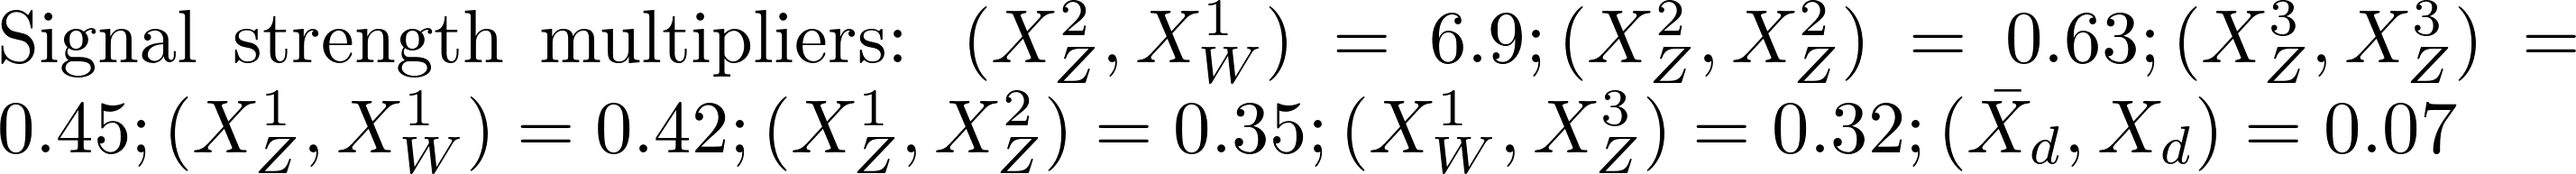
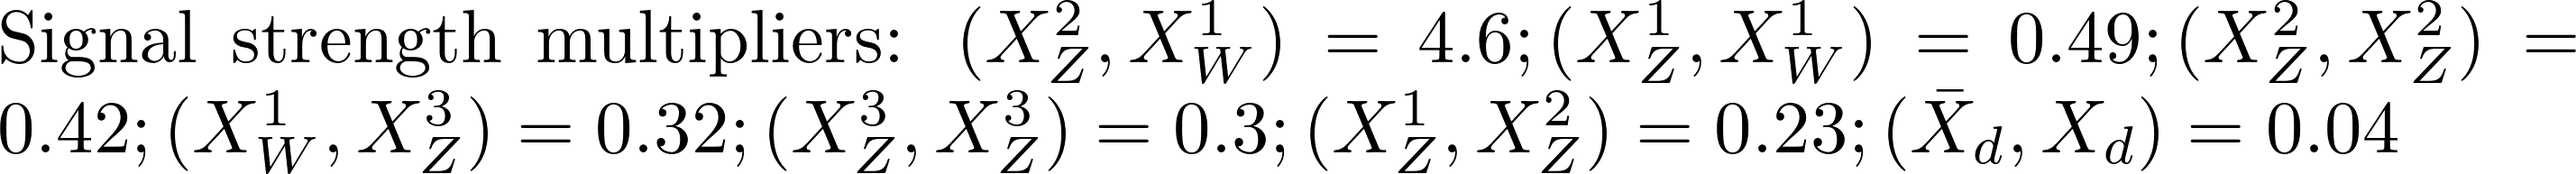
automated update by plotHiscore.py to rundir5_320:     K=33.703 TL=41.45 walkerid=501

diff --git a/protomodels/rundir5_320/rawnumbers.html b/protomodels/rundir5_320/rawnumbers.html
@@ -1,36 +1,36 @@
 <table>
 <tr><th>Analysis Name</th><th>Type</th><th>Dataset</th><th>Topos</th><th>Observed</th><th>Expected</th><th>Approx &sigma;</th><th>Particles</th>
 </tr>
-<tr><td><a href=http://cms-results.web.cern.ch/cms-results/public-results/publications/EXO-20-004/>CMS-EXO-20-004</a></td><td>comb</td> <td>-</td><td>TChiISR, TChiZISRqq</td><td> 1e+02 fb </td><td> 7e+01 fb</td><td style="text-align:right">4.8 &sigma;</td><td style="text-align:right">X<sup>1</sup><sub>W</sub>, X<sup>2</sup><sub>Z</sub>, X<sup>1</sup><sub>Z</sub></td></tr>
-<tr><td><a href=https://atlas.web.cern.ch/Atlas/GROUPS/PHYSICS/PAPERS/EXOT-2018-06/>ATLAS-EXOT-2018-06</a></td><td>em</td> <td>EM10</td><td>TChiISR, TChiZISRqq</td><td>413</td><td>359.00 +/- 10.00</td><td style="text-align:right">2.4 &sigma;</td><td style="text-align:right">X<sup>1</sup><sub>W</sub>, X<sup>2</sup><sub>Z</sub>, X<sup>1</sup><sub>Z</sub></td></tr>
-<tr><td><a href=http://cms-results.web.cern.ch/cms-results/public-results/publications/SUS-20-004/>CMS-SUS-20-004</a></td><td>comb</td> <td>-</td><td>TChiHH</td><td> 0.3 fb </td><td> 0.2 fb</td><td style="text-align:right">2.3 &sigma;</td><td style="text-align:right">X<sup>3</sup><sub>Z</sub>, X<sup>2</sup><sub>Z</sub>, X<sup>1</sup><sub>Z</sub></td></tr>
+<tr><td><a href=http://cms-results.web.cern.ch/cms-results/public-results/publications/EXO-20-004/>CMS-EXO-20-004</a></td><td>comb</td> <td>-</td><td>TChiISR, TChiZISRqq</td><td> 1e+02 fb </td><td> 8e+01 fb</td><td style="text-align:right">4.8 &sigma;</td><td style="text-align:right">X<sup>1</sup><sub>W</sub>, X<sup>2</sup><sub>Z</sub>, X<sup>1</sup><sub>Z</sub></td></tr>
+<tr><td><a href=https://atlas.web.cern.ch/Atlas/GROUPS/PHYSICS/PAPERS/EXOT-2018-06/>ATLAS-EXOT-2018-06</a></td><td>em</td> <td>EM10</td><td>TChiISR, TChiZISRqq</td><td>413</td><td>359.00 +/- 10.00</td><td style="text-align:right">2.5 &sigma;</td><td style="text-align:right">X<sup>1</sup><sub>W</sub>, X<sup>2</sup><sub>Z</sub>, X<sup>1</sup><sub>Z</sub></td></tr>
+<tr><td><a href=http://cms-results.web.cern.ch/cms-results/public-results/publications/SUS-20-004/>CMS-SUS-20-004</a></td><td>comb</td> <td>-</td><td>TChiHH</td><td> 0.4 fb </td><td> 0.2 fb</td><td style="text-align:right">2.3 &sigma;</td><td style="text-align:right">X<sup>3</sup><sub>Z</sub>, X<sup>2</sup><sub>Z</sub>, X<sup>1</sup><sub>Z</sub></td></tr>
 <tr><td><a href=https://atlas.web.cern.ch/Atlas/GROUPS/PHYSICS/PAPERS/SUSY-2016-07/>ATLAS-SUSY-2016-07</a></td><td>em</td> <td>2j_Meff_1200</td><td>T2</td><td>611</td><td>526.00 +/- 31.00</td><td style="text-align:right">2.1 &sigma;</td><td style="text-align:right">X<sup>2</sup><sub>Z</sub>, X<sup>1</sup><sub>Z</sub>, X<sub>d</sub></td></tr>
 <tr><td><a href=https://cms-results.web.cern.ch/cms-results/public-results/publications/SUS-13-012/index.html>CMS-SUS-13-012</a></td><td>em</td> <td>3NJet6_1000HT12 ...</td><td>T2</td><td>32</td><td>22.80 +/- 5.20</td><td style="text-align:right">1.2 &sigma;</td><td style="text-align:right">X<sup>2</sup><sub>Z</sub>, X<sup>1</sup><sub>Z</sub>, X<sub>d</sub></td></tr>
 <tr><td><a href=https://atlas.web.cern.ch/Atlas/GROUPS/PHYSICS/CONFNOTES/ATLAS-CONF-2013-054/>ATLAS-CONF-2013-054</a></td><td>em</td> <td>8j50 flavor 0 b ...</td><td>T2</td><td>40</td><td>35.00 +/- 4.00</td><td style="text-align:right">0.7 &sigma;</td><td style="text-align:right">X<sup>2</sup><sub>Z</sub>, X<sup>1</sup><sub>Z</sub>, X<sub>d</sub></td></tr>
 <tr><td><a href=https://atlas.web.cern.ch/Atlas/GROUPS/PHYSICS/PAPERS/SUSY-2013-02/>ATLAS-SUSY-2013-02</a></td><td>em</td> <td>SR2jt</td><td>T2</td><td>133</td><td>125.00 +/- 10.00</td><td style="text-align:right">0.5 &sigma;</td><td style="text-align:right">X<sup>2</sup><sub>Z</sub>, X<sup>1</sup><sub>Z</sub>, X<sub>d</sub></td></tr>
 </table>
 <table style='color:grey'>
-<tr><th>Not in Best Combo</th><th>Type</th><th>Dataset</th><th>Topos</th><th>Observed</th><th>Expected</th><th>Approx &sigma;</th><th>Particles</th><tr><td><a href=https://atlas.web.cern.ch/Atlas/GROUPS/PHYSICS/CONFNOTES/ATLAS-CONF-2013-047/>ATLAS-CONF-2013-047</a></td><td>em</td> <td>E Loose</td><td>T2</td><td>166</td><td>113.00 +/- 21.00</td><td style="text-align:right">2.2 &sigma;</td><td style="text-align:right">X<sup>2</sup><sub>Z</sub>, X<sup>1</sup><sub>Z</sub>, X<sub>d</sub></td></tr>
-<tr><td><a href=https://atlas.web.cern.ch/Atlas/GROUPS/PHYSICS/CONFNOTES/ATLAS-CONF-2013-047/>ATLAS-CONF-2013-047</a></td><td>em</td> <td>A Loose</td><td>T2</td><td>5333</td><td>4700.00 +/- 500.00</td><td style="text-align:right">1.3 &sigma;</td><td style="text-align:right">X<sup>2</sup><sub>Z</sub>, X<sup>1</sup><sub>Z</sub>, X<sub>d</sub></td></tr>
+<tr><th>Not in Best Combo</th><th>Type</th><th>Dataset</th><th>Topos</th><th>Observed</th><th>Expected</th><th>Approx &sigma;</th><th>Particles</th><tr><td><a href=https://atlas.web.cern.ch/Atlas/GROUPS/PHYSICS/CONFNOTES/ATLAS-CONF-2013-047/>ATLAS-CONF-2013-047</a></td><td>em</td> <td>E Loose</td><td>T2</td><td>166</td><td>113.00 +/- 21.00</td><td style="text-align:right">2.1 &sigma;</td><td style="text-align:right">X<sup>2</sup><sub>Z</sub>, X<sup>1</sup><sub>Z</sub>, X<sub>d</sub></td></tr>
+<tr><td><a href=https://atlas.web.cern.ch/Atlas/GROUPS/PHYSICS/CONFNOTES/ATLAS-CONF-2013-047/>ATLAS-CONF-2013-047</a></td><td>em</td> <td>A Loose</td><td>T2</td><td>5333</td><td>4700.00 +/- 500.00</td><td style="text-align:right">1.2 &sigma;</td><td style="text-align:right">X<sup>2</sup><sub>Z</sub>, X<sup>1</sup><sub>Z</sub>, X<sub>d</sub></td></tr>
 <tr><td><a href=http://cms-results.web.cern.ch/cms-results/public-results/publications/SUS-16-033/index.html>CMS-SUS-16-033</a></td><td>em</td> <td>SR2_Njet3_Nb0_H ...</td><td>T2</td><td>71</td><td>55.20 +/- 11.50</td><td style="text-align:right">1.1 &sigma;</td><td style="text-align:right">X<sup>2</sup><sub>Z</sub>, X<sup>1</sup><sub>Z</sub>, X<sub>d</sub></td></tr>
 <tr><td><a href=https://atlas.web.cern.ch/Atlas/GROUPS/PHYSICS/CONFNOTES/ATLAS-CONF-2013-047/>ATLAS-CONF-2013-047</a></td><td>em</td> <td>E Medium</td><td>T2</td><td>41</td><td>30.00 +/- 8.00</td><td style="text-align:right">1.1 &sigma;</td><td style="text-align:right">X<sup>2</sup><sub>Z</sub>, X<sup>1</sup><sub>Z</sub>, X<sub>d</sub></td></tr>
 <tr><td><a href=http://atlas.web.cern.ch/Atlas/GROUPS/PHYSICS/PAPERS/SUSY-2015-06/>ATLAS-SUSY-2015-06</a></td><td>em</td> <td>SR4jt</td><td>T2</td><td>7</td><td>4.10 +/- 1.10</td><td style="text-align:right">1.0 &sigma;</td><td style="text-align:right">X<sup>2</sup><sub>Z</sub>, X<sup>1</sup><sub>Z</sub>, X<sub>d</sub></td></tr>
 <tr><td><a href=https://atlas.web.cern.ch/Atlas/GROUPS/PHYSICS/CONFNOTES/ATLAS-CONF-2013-047/>ATLAS-CONF-2013-047</a></td><td>em</td> <td>E Tight</td><td>T2</td><td>5</td><td>2.90 +/- 1.80</td><td style="text-align:right">0.7 &sigma;</td><td style="text-align:right">X<sup>2</sup><sub>Z</sub>, X<sup>1</sup><sub>Z</sub>, X<sub>d</sub></td></tr>
-<tr><td><a href=https://atlas.web.cern.ch/Atlas/GROUPS/PHYSICS/CONFNOTES/ATLAS-CONF-2013-047/>ATLAS-CONF-2013-047</a></td><td>em</td> <td>B Tight</td><td>T2</td><td>4</td><td>2.40 +/- 1.40</td><td style="text-align:right">0.6 &sigma;</td><td style="text-align:right">X<sup>2</sup><sub>Z</sub>, X<sup>1</sup><sub>Z</sub>, X<sub>d</sub></td></tr>
 <tr><td><a href=http://cms-results.web.cern.ch/cms-results/public-results/publications/SUS-16-033/index.html>CMS-SUS-16-033</a></td><td>em</td> <td>SR6_Njet2_Nb2_H ...</td><td>T2</td><td>216</td><td>196.00 +/- 28.00</td><td style="text-align:right">0.6 &sigma;</td><td style="text-align:right">X<sup>2</sup><sub>Z</sub>, X<sup>1</sup><sub>Z</sub>, X<sub>d</sub></td></tr>
+<tr><td><a href=https://atlas.web.cern.ch/Atlas/GROUPS/PHYSICS/CONFNOTES/ATLAS-CONF-2013-047/>ATLAS-CONF-2013-047</a></td><td>em</td> <td>B Tight</td><td>T2</td><td>4</td><td>2.40 +/- 1.40</td><td style="text-align:right">0.6 &sigma;</td><td style="text-align:right">X<sup>2</sup><sub>Z</sub>, X<sup>1</sup><sub>Z</sub>, X<sub>d</sub></td></tr>
 <tr><td><a href=https://atlas.web.cern.ch/Atlas/GROUPS/PHYSICS/CONFNOTES/ATLAS-CONF-2013-047/>ATLAS-CONF-2013-047</a></td><td>em</td> <td>A Medium</td><td>T2</td><td>135</td><td>122.00 +/- 18.00</td><td style="text-align:right">0.6 &sigma;</td><td style="text-align:right">X<sup>2</sup><sub>Z</sub>, X<sup>1</sup><sub>Z</sub>, X<sub>d</sub></td></tr>
 <tr><td><a href=http://cms-results.web.cern.ch/cms-results/public-results/publications/SUS-16-033/index.html>CMS-SUS-16-033</a></td><td>em</td> <td>SR1_Njet2_Nb0_H ...</td><td>T2</td><td>7838</td><td>7584.00 +/- 433.00</td><td style="text-align:right">0.6 &sigma;</td><td style="text-align:right">X<sup>2</sup><sub>Z</sub>, X<sup>1</sup><sub>Z</sub>, X<sub>d</sub></td></tr>
 <tr><td><a href=http://cms-results.web.cern.ch/cms-results/public-results/publications/SUS-16-033/index.html>CMS-SUS-16-033</a></td><td>em</td> <td>SR12_Njet5_Nb1_ ...</td><td>T2</td><td>48</td><td>42.20 +/- 9.70</td><td style="text-align:right">0.5 &sigma;</td><td style="text-align:right">X<sup>2</sup><sub>Z</sub>, X<sup>1</sup><sub>Z</sub>, X<sub>d</sub></td></tr>
 <tr><td><a href=http://cms-results.web.cern.ch/cms-results/public-results/publications/SUS-16-033/index.html>CMS-SUS-16-033</a></td><td>em</td> <td>SR7_Njet3_Nb1_H ...</td><td>T2</td><td>123</td><td>113.00 +/- 18.00</td><td style="text-align:right">0.5 &sigma;</td><td style="text-align:right">X<sup>2</sup><sub>Z</sub>, X<sup>1</sup><sub>Z</sub>, X<sub>d</sub></td></tr>
 <tr><td><a href=https://atlas.web.cern.ch/Atlas/GROUPS/PHYSICS/CONFNOTES/ATLAS-CONF-2013-047/>ATLAS-CONF-2013-047</a></td><td>em</td> <td>D</td><td>T2</td><td>18</td><td>15.00 +/- 5.00</td><td style="text-align:right">0.4 &sigma;</td><td style="text-align:right">X<sup>2</sup><sub>Z</sub>, X<sup>1</sup><sub>Z</sub>, X<sub>d</sub></td></tr>
-<tr><td><a href=http://atlas.web.cern.ch/Atlas/GROUPS/PHYSICS/PAPERS/SUSY-2015-06/>ATLAS-SUSY-2015-06</a></td><td>em</td> <td>SR2jt</td><td>T2</td><td>26</td><td>23.00 +/- 4.00</td><td style="text-align:right">0.5 &sigma;</td><td style="text-align:right">X<sup>2</sup><sub>Z</sub>, X<sup>1</sup><sub>Z</sub>, X<sub>d</sub></td></tr>
+<tr><td><a href=http://atlas.web.cern.ch/Atlas/GROUPS/PHYSICS/PAPERS/SUSY-2015-06/>ATLAS-SUSY-2015-06</a></td><td>em</td> <td>SR2jt</td><td>T2</td><td>26</td><td>23.00 +/- 4.00</td><td style="text-align:right">0.4 &sigma;</td><td style="text-align:right">X<sup>2</sup><sub>Z</sub>, X<sup>1</sup><sub>Z</sub>, X<sub>d</sub></td></tr>
 <tr><td><a href=https://atlas.web.cern.ch/Atlas/GROUPS/PHYSICS/CONFNOTES/ATLAS-CONF-2013-047/>ATLAS-CONF-2013-047</a></td><td>em</td> <td>C Medium</td><td>T2</td><td>228</td><td>210.00 +/- 40.00</td><td style="text-align:right">0.4 &sigma;</td><td style="text-align:right">X<sup>2</sup><sub>Z</sub>, X<sup>1</sup><sub>Z</sub>, X<sub>d</sub></td></tr>
 <tr><td><a href=http://cms-results.web.cern.ch/cms-results/public-results/publications/SUS-16-033/index.html>CMS-SUS-16-033</a></td><td>em</td> <td>SR9_NJet5_Nb2_H ...</td><td>T2</td><td>6</td><td>4.40 +/- 3.40</td><td style="text-align:right">0.4 &sigma;</td><td style="text-align:right">X<sup>2</sup><sub>Z</sub>, X<sup>1</sup><sub>Z</sub>, X<sub>d</sub></td></tr>
 <tr><td><a href=http://cms-results.web.cern.ch/cms-results/public-results/publications/SUS-16-033/index.html>CMS-SUS-16-033</a></td><td>em</td> <td>SR4_Njet5_Nb0_H ...</td><td>T2</td><td>25</td><td>23.00 +/- 6.50</td><td style="text-align:right">0.2 &sigma;</td><td style="text-align:right">X<sup>2</sup><sub>Z</sub>, X<sup>1</sup><sub>Z</sub>, X<sub>d</sub></td></tr>
 <tr><td><a href=http://cms-results.web.cern.ch/cms-results/public-results/publications/SUS-16-033/index.html>CMS-SUS-16-033</a></td><td>em</td> <td>SR3_Njet5_Nb0_H ...</td><td>T2</td><td>819</td><td>806.00 +/- 57.00</td><td style="text-align:right">0.2 &sigma;</td><td style="text-align:right">X<sup>2</sup><sub>Z</sub>, X<sup>1</sup><sub>Z</sub>, X<sub>d</sub></td></tr>
 <tr><td><a href=http://cms-results.web.cern.ch/cms-results/public-results/publications/SUS-16-033/index.html>CMS-SUS-16-033</a></td><td>em</td> <td>SR5_Njet9_Nb0_H ...</td><td>T2</td><td>1</td><td>0.60 +/- 1.30</td><td style="text-align:right">0.2 &sigma;</td><td style="text-align:right">X<sup>2</sup><sub>Z</sub>, X<sup>1</sup><sub>Z</sub>, X<sub>d</sub></td></tr>
 <tr><td><a href=http://atlas.web.cern.ch/Atlas/GROUPS/PHYSICS/PAPERS/SUSY-2015-06/>ATLAS-SUSY-2015-06</a></td><td>em</td> <td>SR2jm</td><td>T2</td><td>191</td><td>191.00 +/- 21.00</td><td style="text-align:right">-0.0 &sigma;</td><td style="text-align:right">X<sup>2</sup><sub>Z</sub>, X<sup>1</sup><sub>Z</sub>, X<sub>d</sub></td></tr>
-<tr><td><a href=https://atlas.web.cern.ch/Atlas/GROUPS/PHYSICS/PAPERS/SUSY-2018-22/>ATLAS-SUSY-2018-22</a></td><td>em</td> <td>SR2j_2200</td><td>T2</td><td>971</td><td>980.00 +/- 50.00</td><td style="text-align:right">-0.2 &sigma;</td><td style="text-align:right">X<sup>2</sup><sub>Z</sub>, X<sup>1</sup><sub>Z</sub>, X<sub>d</sub></td></tr>
+<tr><td><a href=https://atlas.web.cern.ch/Atlas/GROUPS/PHYSICS/PAPERS/SUSY-2018-22/>ATLAS-SUSY-2018-22</a></td><td>em</td> <td>SR2j_2200</td><td>T2</td><td>971</td><td>980.00 +/- 50.00</td><td style="text-align:right">-0.1 &sigma;</td><td style="text-align:right">X<sup>2</sup><sub>Z</sub>, X<sup>1</sup><sub>Z</sub>, X<sub>d</sub></td></tr>
 <tr><td><a href=http://cms-results.web.cern.ch/cms-results/public-results/publications/SUS-16-033/index.html>CMS-SUS-16-033</a></td><td>em</td> <td>SR8_Njet5_Nb3_H ...</td><td>T2</td><td>17</td><td>19.50 +/- 8.40</td><td style="text-align:right">-0.3 &sigma;</td><td style="text-align:right">X<sup>2</sup><sub>Z</sub>, X<sup>1</sup><sub>Z</sub>, X<sub>d</sub></td></tr>
 <tr><td><a href=https://atlas.web.cern.ch/Atlas/GROUPS/PHYSICS/CONFNOTES/ATLAS-CONF-2013-047/>ATLAS-CONF-2013-047</a></td><td>em</td> <td>B Medium</td><td>T2</td><td>29</td><td>33.00 +/- 7.00</td><td style="text-align:right">-0.5 &sigma;</td><td style="text-align:right">X<sup>2</sup><sub>Z</sub>, X<sup>1</sup><sub>Z</sub>, X<sub>d</sub></td></tr>
 <tr><td><a href=https://atlas.web.cern.ch/Atlas/GROUPS/PHYSICS/PAPERS/SUSY-2018-22/>ATLAS-SUSY-2018-22</a></td><td>em</td> <td>SR2j_1600</td><td>T2</td><td>2111</td><td>2190.00 +/- 130.00</td><td style="text-align:right">-0.6 &sigma;</td><td style="text-align:right">X<sup>2</sup><sub>Z</sub>, X<sup>1</sup><sub>Z</sub>, X<sub>d</sub></td></tr>
@@ -41,5 +41,5 @@
 <tr><td><a href=http://cms-results.web.cern.ch/cms-results/public-results/publications/SUS-16-033/index.html>CMS-SUS-16-033</a></td><td>em</td> <td>SR11_Njet7_Nb1_ ...</td><td>T2</td><td>890</td><td>969.00 +/- 80.00</td><td style="text-align:right">-0.9 &sigma;</td><td style="text-align:right">X<sup>2</sup><sub>Z</sub>, X<sup>1</sup><sub>Z</sub>, X<sub>d</sub></td></tr>
 <tr><td><a href=http://atlas.web.cern.ch/Atlas/GROUPS/PHYSICS/PAPERS/SUSY-2015-06/>ATLAS-SUSY-2015-06</a></td><td>em</td> <td>SR6jm</td><td>T2</td><td>4</td><td>6.90 +/- 1.50</td><td style="text-align:right">-1.2 &sigma;</td><td style="text-align:right">X<sup>2</sup><sub>Z</sub>, X<sup>1</sup><sub>Z</sub>, X<sub>d</sub></td></tr>
 <tr><td><a href=http://atlas.web.cern.ch/Atlas/GROUPS/PHYSICS/PAPERS/SUSY-2015-06/>ATLAS-SUSY-2015-06</a></td><td>em</td> <td>SR5j</td><td>T2</td><td>7</td><td>13.20 +/- 2.20</td><td style="text-align:right">-1.7 &sigma;</td><td style="text-align:right">X<sup>2</sup><sub>Z</sub>, X<sup>1</sup><sub>Z</sub>, X<sub>d</sub></td></tr>
-<tr><td><a href=http://cms-results.web.cern.ch/cms-results/public-results/publications/SUS-19-006/index.html>CMS-SUS-19-006-agg</a></td><td>comb</td> <td>-</td><td>T2</td><td> 9 fb </td><td> 8 fb</td><td style="text-align:right">-2.2 &sigma;</td><td style="text-align:right">X<sup>2</sup><sub>Z</sub>, X<sup>1</sup><sub>Z</sub>, X<sub>d</sub></td></tr>
+<tr><td><a href=http://cms-results.web.cern.ch/cms-results/public-results/publications/SUS-19-006/index.html>CMS-SUS-19-006-agg</a></td><td>comb</td> <td>-</td><td>T2</td><td> 9 fb </td><td> 8 fb</td><td style="text-align:right">-2.5 &sigma;</td><td style="text-align:right">X<sup>2</sup><sub>Z</sub>, X<sup>1</sup><sub>Z</sub>, X<sub>d</sub></td></tr>
 </table>

diff --git a/protomodels/rundir5_320/index.html b/protomodels/rundir5_320/index.html
@@ -1,27 +1,27 @@
 <html>
 <body>
 <center>
-<table><td><h1>Current best protomodel: <i>K</i>=33.35, <i>TL</i>=41.10</h1><td><img height=60px src=https://smodels.github.io//protomodels/logos/protomodel_lego.png></table>
+<table><td><h1>Current best protomodel: <i>K</i>=33.70, <i>TL</i>=41.45</h1><td><img height=60px src=https://smodels.github.io//protomodels/logos/protomodel_lego.png></table>
 </center>
-<b><a href=./hiscore.slha>ProtoModel</a> <a href=./pmodel.dict>(dict)</a> produced with <a href=https://smodels.github.io//docs/Validation320>database v3.2.0</a>, allowed_extr 0.05 in walker 504 step 1571.</b> <br>
+<b><a href=./hiscore.slha>ProtoModel</a> <a href=./pmodel.dict>(dict)</a> produced with <a href=https://smodels.github.io//docs/Validation320>database v3.2.0</a>, allowed_extr 0.05 in walker 501 step 1619.</b> <br>
 <table width=80%>
 <tr><td>
 <br><b>Critics:</b> passed both critics<br>
-<br><b>UL Critic: 1/7 analyses exclude</b><br>
-ATLAS-EXOT-2018-06:EM12:: <span style='color: darkred;'>r<sub>obs</sub>=1.776, r<sub>exp</sub>=1.482</span><br>
-CMS-SUS-19-006:ul:: <span style='color: darkgreen;'>r<sub>obs</sub>=1.323, r<sub>exp</sub>=1.128</span><br>
-CMS-SUS-16-033:ul:: <span style='color: darkgreen;'>r<sub>obs</sub>=1.24, r<sub>exp</sub>=0.854</span><br>
-<br><b>LLHD Critic:</b> CMS-EXO-20-004:matrix.cov, ATLAS-SUSY-2018-22:SR2j_1600, CMS-SUS-20-004:matrix.cov, ATLAS-SUSY-2013-02:SR2jt, CMS-SUS-13-012:3NJet6_1000HT1250_600MHTinf:: <span style='color: darkgreen;'>r<sub>obs</sub>=0.99, r<sub>exp</sub>=3.39</span><br>
+<br><b>UL Critic: 1/3 analyses exclude</b><br>
+ATLAS-EXOT-2018-06:EM12:: <span style='color: darkred;'>r<sub>obs</sub>=2.15, r<sub>exp</sub>=1.794</span><br>
+CMS-SUS-19-006:ul:: <span style='color: darkgreen;'>r<sub>obs</sub>=0.876, r<sub>exp</sub>=0.749</span><br>
+CMS-SUS-16-033:ul:: <span style='color: darkgreen;'>r<sub>obs</sub>=0.82, r<sub>exp</sub>=0.566</span><br>
+<br><b>LLHD Critic:</b> CMS-EXO-20-004:matrix.cov, ATLAS-EXOT-2018-06:EM12, CMS-SUS-20-004:matrix.cov, ATLAS-SUSY-2016-07:2j_Meff_1200, ATLAS-SUSY-2013-02:SR2jt, CMS-SUS-13-012:3NJet6_1000HT1250_600MHTinf:: <span style='color: darkgreen;'>r<sub>obs</sub>=0.99, r<sub>exp</sub>=3.52</span><br>
 </ul>
-<td><img width=600px src=./texdoc.png?1791802694>
-<br><span style='font-size: smaller; color: darkred;'>Last updated: Mon Oct 12 12:58:14 2026</span>
-<br><br><b>17 predictions available. Highest r values are:</b><br><ul>
-<li><a href=https://atlas.web.cern.ch/Atlas/GROUPS/PHYSICS/PAPERS/EXOT-2018-06/>ATLAS-EXOT-2018-06</a>:EM12:TChiZISRqq,TChiISR r=1.78, r<sub>exp</sub>=1.48<br>
-<li><a href=http://cms-results.web.cern.ch/cms-results/public-results/publications/SUS-19-006/index.html>CMS-SUS-19-006</a>:ul:T2 r=1.32, r<sub>exp</sub>=1.13<br>
-<li><a href=http://cms-results.web.cern.ch/cms-results/public-results/publications/SUS-16-033/index.html>CMS-SUS-16-033</a>:ul:T2 r=1.24, r<sub>exp</sub>=0.85<br>
-<li><a href=http://cms-results.web.cern.ch/cms-results/public-results/publications/SUS-16-036/index.html>CMS-SUS-16-036</a>:ul:T2 r=0.91, r<sub>exp</sub>=0.77<br>
+<td><img width=600px src=./texdoc.png?1791966242>
+<br><span style='font-size: smaller; color: darkred;'>Last updated: Wed Oct 14 10:24:02 2026</span>
+<br><br><b>42 predictions available. Highest r values are:</b><br><ul>
+<li><a href=https://atlas.web.cern.ch/Atlas/GROUPS/PHYSICS/PAPERS/EXOT-2018-06/>ATLAS-EXOT-2018-06</a>:EM12:TChiZISRqq,TChiISR r=2.15, r<sub>exp</sub>=1.79<br>
+<li><a href=http://cms-results.web.cern.ch/cms-results/public-results/publications/SUS-19-006/index.html>CMS-SUS-19-006</a>:ul:T2 r=0.88, r<sub>exp</sub>=0.75<br>
+<li><a href=http://cms-results.web.cern.ch/cms-results/public-results/publications/SUS-16-033/index.html>CMS-SUS-16-033</a>:ul:T2 r=0.82, r<sub>exp</sub>=0.57<br>
+<li><a href=http://cms-results.web.cern.ch/cms-results/public-results/publications/SUS-16-036/index.html>CMS-SUS-16-036</a>:ul:T2 r=0.60, r<sub>exp</sub>=0.51<br>
 </table><table style="width:80%">
-<td width=40%><img height=450px src=./mass_hierarchy.png?1791802694><td width=60%><font size=-3><iframe type="text/html" height="350px" width="100%" frameborder="0" src="./rawnumbers.html?1791802694"></iframe></font>
+<td width=40%><img height=450px src=./mass_hierarchy.png?1791966242><td width=60%><font size=-3><iframe type="text/html" height="350px" width="100%" frameborder="0" src="./rawnumbers.html?1791966242"></iframe></font>
 </table>
 </body>
 </html>
